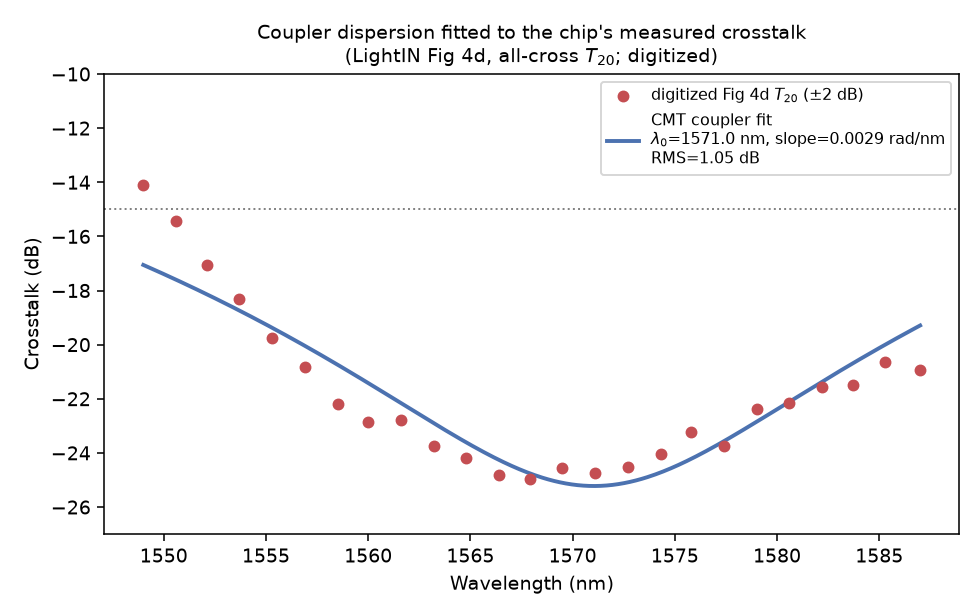
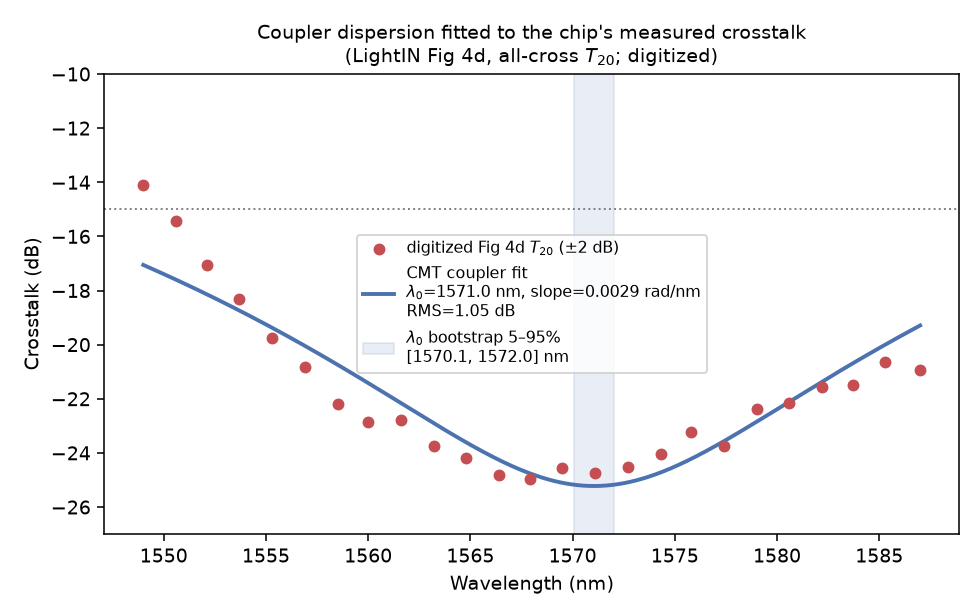
Bootstrap Fig 4d fit and set coupler 3-dB wavelength

Changed region(s): [[0.3673, 0.3701, 0.7347, 0.6169], [0.6122, 0.1234, 0.9796, 0.3084]]

diff --git a/scripts/fit_fig4.py b/scripts/fit_fig4.py
@@ -1,12 +1,17 @@
 """
 Fit the coupler dispersion to the digitized LightIN Fig 4d (all-cross) T20 crosstalk
-curve, and overlay the fitted model. Run: PYTHONPATH=. python3 scripts/fit_fig4.py
+curve, and overlay the fitted model. Run: python scripts/fit_fig4.py
 
 The digitized data (data/fig4d_T20_digitized.csv) was extracted from the published
 figure by colour segmentation, with the dB scale anchored to figure-read endpoints
 (~+/-2 dB). Cross-state crosstalk has a floor (the ~-25 dB minimum from fabrication /
 measurement), so the model is  10*log10[(1-2*kappa)^2 + floor],  with
 kappa(lambda) = sin^2(arcsin(sqrt(0.5)) + slope*(lambda - lambda0)).
+
+The 25 digitized points carry a stated ~+/-2 dB reading uncertainty, so the point fit
+alone says nothing about how well lambda0 is determined. A pairs bootstrap -- resample
+the (lambda, dB) pairs with replacement and refit -- turns that scatter into an interval
+on lambda0 and on the dispersion slope.
 """
 import os
 import numpy as np
@@ -19,6 +24,9 @@ HERE = os.path.dirname(__file__)
 CSV = os.path.join(HERE, "..", "data", "fig4d_T20_digitized.csv")
 FIG = os.path.join(HERE, "..", "figures", "fig4_digitized.png")
 
+FIT_RANGE_NM = [1549, 1587]     # wavelength span of the digitized points
+P0 = (1568.0, 0.0045, -25.0)    # lambda0 (nm), slope (rad/nm), floor (dB)
+
 
 def crosstalk_model(lam, lam0, slope, floor_db):
     a0 = np.arcsin(np.sqrt(0.5))
@@ -26,26 +34,81 @@ def crosstalk_model(lam, lam0, slope, floor_db):
     return 10 * np.log10((1 - 2 * k) ** 2 + 10 ** (floor_db / 10))
 
 
-def main():
+def load_points(path=CSV):
+    """Read the digitized (wavelength_nm, crosstalk_dB) pairs."""
     lam, db = [], []
-    with open(CSV) as f:
+    with open(path) as f:
         for line in f:
             if line.startswith("#") or line.startswith("wavelength"):
                 continue
             a, b = line.strip().split(",")
             lam.append(float(a)); db.append(float(b))
-    lam = np.array(lam); db = np.array(db)
+    return np.array(lam), np.array(db)
 
-    popt, _ = curve_fit(crosstalk_model, lam, db,
-                        p0=[1568.0, 0.0045, -25.0], maxfev=40000)
+
+def fit(lam, db, p0=P0):
+    """Least-squares fit of crosstalk_model; raises RuntimeError if it does not converge."""
+    popt, _ = curve_fit(crosstalk_model, lam, db, p0=list(p0), maxfev=40000)
+    return popt
+
+
+def bootstrap(lam, db, n_boot=500, seed=0):
+    """Pairs bootstrap: resample the points with replacement, refit, tabulate.
+
+    A resample whose fit does not converge, or which returns a non-finite parameter, is
+    discarded and counted in "n_failed" rather than being retried with a different seed,
+    so the reported interval is over the fits that actually succeeded.
+    """
+    rng = np.random.default_rng(seed)
+    n = lam.size
+    lam0s, slopes, n_failed = [], [], 0
+    for _ in range(n_boot):
+        idx = rng.integers(0, n, size=n)
+        try:
+            p = fit(lam[idx], db[idx])
+        except (RuntimeError, ValueError, TypeError):
+            n_failed += 1
+            continue
+        if not np.all(np.isfinite(p[:2])):
+            n_failed += 1
+            continue
+        lam0s.append(float(p[0])); slopes.append(float(p[1]))
+    lam0s = np.array(lam0s); slopes = np.array(slopes)
+    return {
+        "lambda0_median_nm": float(np.median(lam0s)),
+        "lambda0_p05_nm": float(np.percentile(lam0s, 5)),
+        "lambda0_p95_nm": float(np.percentile(lam0s, 95)),
+        "slope_median": float(np.median(slopes)),
+        "slope_p05": float(np.percentile(slopes, 5)),
+        "slope_p95": float(np.percentile(slopes, 95)),
+        "n_boot": int(n_boot),
+        "n_failed": int(n_failed),
+        "fit_range_nm": list(FIT_RANGE_NM),
+    }
+
+
+def main(verbose=True, n_boot=500, seed=0):
+    lam, db = load_points()
+    popt = fit(lam, db)
     lam0, slope, floor = popt
     rms = float(np.sqrt(np.mean((db - crosstalk_model(lam, *popt)) ** 2)))
-    print(f"Fit to digitized Fig 4d T20 crosstalk:")
-    print(f"  coupler 3-dB wavelength lambda0 = {lam0:.1f} nm")
-    print(f"  dispersion slope                = {slope:.4f} rad/nm  "
-          f"(literature/default was 0.004)")
-    print(f"  crosstalk floor                 = {floor:.1f} dB")
-    print(f"  fit RMS                         = {rms:.2f} dB")
+    boot = bootstrap(lam, db, n_boot=n_boot, seed=seed)
+
+    if verbose:
+        print("Fit to digitized Fig 4d T20 crosstalk:")
+        print(f"  coupler 3-dB wavelength lambda0 = {lam0:.1f} nm")
+        print(f"  dispersion slope                = {slope:.4f} rad/nm  "
+              f"(literature/default was 0.004)")
+        print(f"  crosstalk floor                 = {floor:.1f} dB")
+        print(f"  fit RMS                         = {rms:.2f} dB")
+        print(f"  fitted wavelength range         = {FIT_RANGE_NM[0]}-{FIT_RANGE_NM[1]} nm"
+              f" ({lam.size} points)")
+        print(f"  pairs bootstrap, {boot['n_boot']} resamples "
+              f"({boot['n_failed']} failed fits discarded):")
+        print(f"    lambda0 median = {boot['lambda0_median_nm']:.1f} nm  "
+              f"[5%, 95%] = [{boot['lambda0_p05_nm']:.1f}, {boot['lambda0_p95_nm']:.1f}] nm")
+        print(f"    slope   median = {boot['slope_median']:.4f} rad/nm  "
+              f"[5%, 95%] = [{boot['slope_p05']:.4f}, {boot['slope_p95']:.4f}] rad/nm")
 
     lf = np.linspace(lam.min(), lam.max(), 400)
     fig, ax = plt.subplots(figsize=(7, 4.4))
@@ -54,15 +117,24 @@ def main():
     ax.plot(lf, crosstalk_model(lf, *popt), color="#4C72B0", lw=2,
             label=(f"CMT coupler fit\n$\\lambda_0$={lam0:.1f} nm, "
                    f"slope={slope:.4f} rad/nm\nRMS={rms:.2f} dB"))
+    ax.axvspan(boot["lambda0_p05_nm"], boot["lambda0_p95_nm"], color="#4C72B0",
+               alpha=0.12, zorder=0,
+               label=(f"$\\lambda_0$ bootstrap 5–95%\n"
+                      f"[{boot['lambda0_p05_nm']:.1f}, {boot['lambda0_p95_nm']:.1f}] nm"))
     ax.axhline(-15, color="grey", ls=":", lw=1)
     ax.set_xlabel("Wavelength (nm)"); ax.set_ylabel("Crosstalk (dB)")
     ax.set_title("Coupler dispersion fitted to the chip's measured crosstalk\n"
                  "(LightIN Fig 4d, all-cross $T_{20}$; digitized)", fontsize=10)
     ax.legend(fontsize=8); ax.set_ylim(-27, -10)
     fig.tight_layout(); fig.savefig(FIG, dpi=140)
-    print(f"  wrote {os.path.abspath(FIG)}")
-    return {"lambda0_nm": float(lam0), "slope_rad_nm": float(slope),
-            "floor_db": float(floor), "rms_db": rms}
+    plt.close(fig)
+    if verbose:
+        print(f"  wrote {os.path.abspath(FIG)}")
+
+    out = dict(boot)
+    out.update({"lambda0_nm": float(lam0), "slope_rad_nm": float(slope),
+                "floor_db": float(floor), "rms_db": rms})
+    return out
 
 
 if __name__ == "__main__":

diff --git a/lightin/coupler.py b/lightin/coupler.py
@@ -24,6 +24,7 @@ import numpy as np
 
 # --- Device constants from the LightIN paper (Methods) + supplementary ---
 LAMBDA0 = 1560.0       # nm, matrix-multiplication design wavelength (Methods)
+DC_LAMBDA_3DB = 1571.0  # nm, 3-dB point fitted to digitized Fig 4d (scripts/fit_fig4.py); design wavelength is 1560 nm
 LAMBDA_MRM = 1555.0    # nm, MRM wavelength-locking experiment (Methods)
 N_GROUP = 4.0          # group index, stated in paper ("group index of 4")
 N_EFF = 2.36           # phase index, 450x220 nm SOI strip TE @1560 nm (geometry-derived)
@@ -36,7 +37,7 @@ HEATER_LENGTH_UM = 100.0  # phase-shifter heater length (Methods)
 PROP_LOSS_DB_CM = 2.0  # strip-waveguide propagation loss (~2.14 dB/cm, arXiv:2111.01792)
 
 
-def dc_power_coupling(lam, kappa0=0.5, slope=0.0029, lam0=LAMBDA0):
+def dc_power_coupling(lam, kappa0=0.5, slope=0.0029, lam0=DC_LAMBDA_3DB):
     """Power cross-coupling ratio of a directional coupler, 50:50 at lam0.
 
     K(lambda) = sin^2( arcsin(sqrt(kappa0)) + slope*(lambda - lam0) ).
@@ -101,16 +102,17 @@ def link_budget_db(lam=LAMBDA0, waveguide_cm=0.45, n_couplers_in_path=4,
             + n_couplers_in_path * dc_excess_db)
 
 
-def fit_dc_dispersion(lam_data, kpow_data, p0=(0.5, 0.004)):
+def fit_dc_dispersion(lam_data, kpow_data, p0=(0.5, 0.004), lam0=DC_LAMBDA_3DB):
     """Fit the CMT coupling form K(lambda)=sin^2(arcsin(sqrt(k0))+slope*(lam-lam0)).
 
-    Returns (kappa0, slope, rms_residual). Use this on real measured coupler data.
+    Returns (kappa0, slope, rms_residual), with kappa0 the power coupling at lam0.
+    Use this on real measured coupler data.
     """
     from scipy.optimize import curve_fit
 
     def model(lam, k0, slope):
         return np.sin(np.arcsin(np.sqrt(np.clip(k0, 1e-6, 1 - 1e-6)))
-                      + slope * (lam - LAMBDA0)) ** 2
+                      + slope * (lam - lam0)) ** 2
 
     popt, _ = curve_fit(model, lam_data, kpow_data, p0=list(p0), maxfev=20000)
     resid = kpow_data - model(lam_data, *popt)

diff --git a/scripts/run_all.py b/scripts/run_all.py
@@ -5,6 +5,7 @@ results.json, and saves verification figures into figures/.
 
 import json
 import os
+import sys
 import numpy as np
 import matplotlib
 matplotlib.use("Agg")
@@ -14,7 +15,13 @@ from lightin import (unitary, nonunitary, nn_iris, ppuf, mrm, switching, through
                      coupler, expressivity, recirculating)
 from lightin.metrics import enob, propagation_latency
 
+sys.path.insert(0, os.path.dirname(os.path.abspath(__file__)))
+import fit_fig4                       # noqa: E402  (sibling script)
+
 FIGDIR = os.path.join(os.path.dirname(__file__), "..", "figures")
+FIG4D_KEYS = ("lambda0_median_nm", "lambda0_p05_nm", "lambda0_p95_nm",
+              "slope_median", "slope_p05", "slope_p95",
+              "n_boot", "n_failed", "fit_range_nm")
 os.makedirs(FIGDIR, exist_ok=True)
 
 
@@ -254,6 +261,8 @@ def main():
     ex = expressivity.run()
     print("\n--- 10. Recirculating mesh with feedback loops ---")
     rc = recirculating.run()
+    print("\n--- 11. Fig 4d coupler dispersion fit (bootstrapped) ---")
+    f4 = {k: v for k, v in fit_fig4.main().items() if k in FIG4D_KEYS}
 
     print("\n--- Generating figures ---")
     fig_unitary(u); fig_nonunitary(nu); fig_iris(ir); fig_ppuf(pp)
@@ -297,6 +306,7 @@ def main():
             "realizable_unitary_fidelity": ex["realizable"],
             "coupler_ceiling_min_fidelity": float(ex["coupler_ceiling_fidelity"].min()),
         },
+        "fig4d_fit": f4,
         "recirculating": rc,
         "latency_on_chip_ps": propagation_latency(4.5e-3) * 1e12,
     }

diff --git a/tests/test_reproduction.py b/tests/test_reproduction.py
@@ -83,11 +83,12 @@ def test_mrm_lock_high_er():
     assert abs(peak_bias - sw["lock_bias"]) < 0.1
 
 
-def test_coupler_3db_at_design():
+def test_coupler_3db_at_fitted_wavelength():
     from lightin import coupler
-    assert abs(coupler.dc_power_coupling(1560.0) - 0.5) < 1e-6      # 50:50 at lam0
+    lam0 = coupler.DC_LAMBDA_3DB                                    # fitted, not 1560 nm
+    assert abs(coupler.dc_power_coupling(lam0) - 0.5) < 1e-6        # 50:50 at lam0
     # extinction is high at the 3-dB wavelength, degrades at band edges
-    assert coupler.extinction_ratio_db(1560.0) > 40.0
+    assert coupler.extinction_ratio_db(lam0) > 40.0
     assert coupler.extinction_ratio_db(1520.0) < 30.0
 
 
